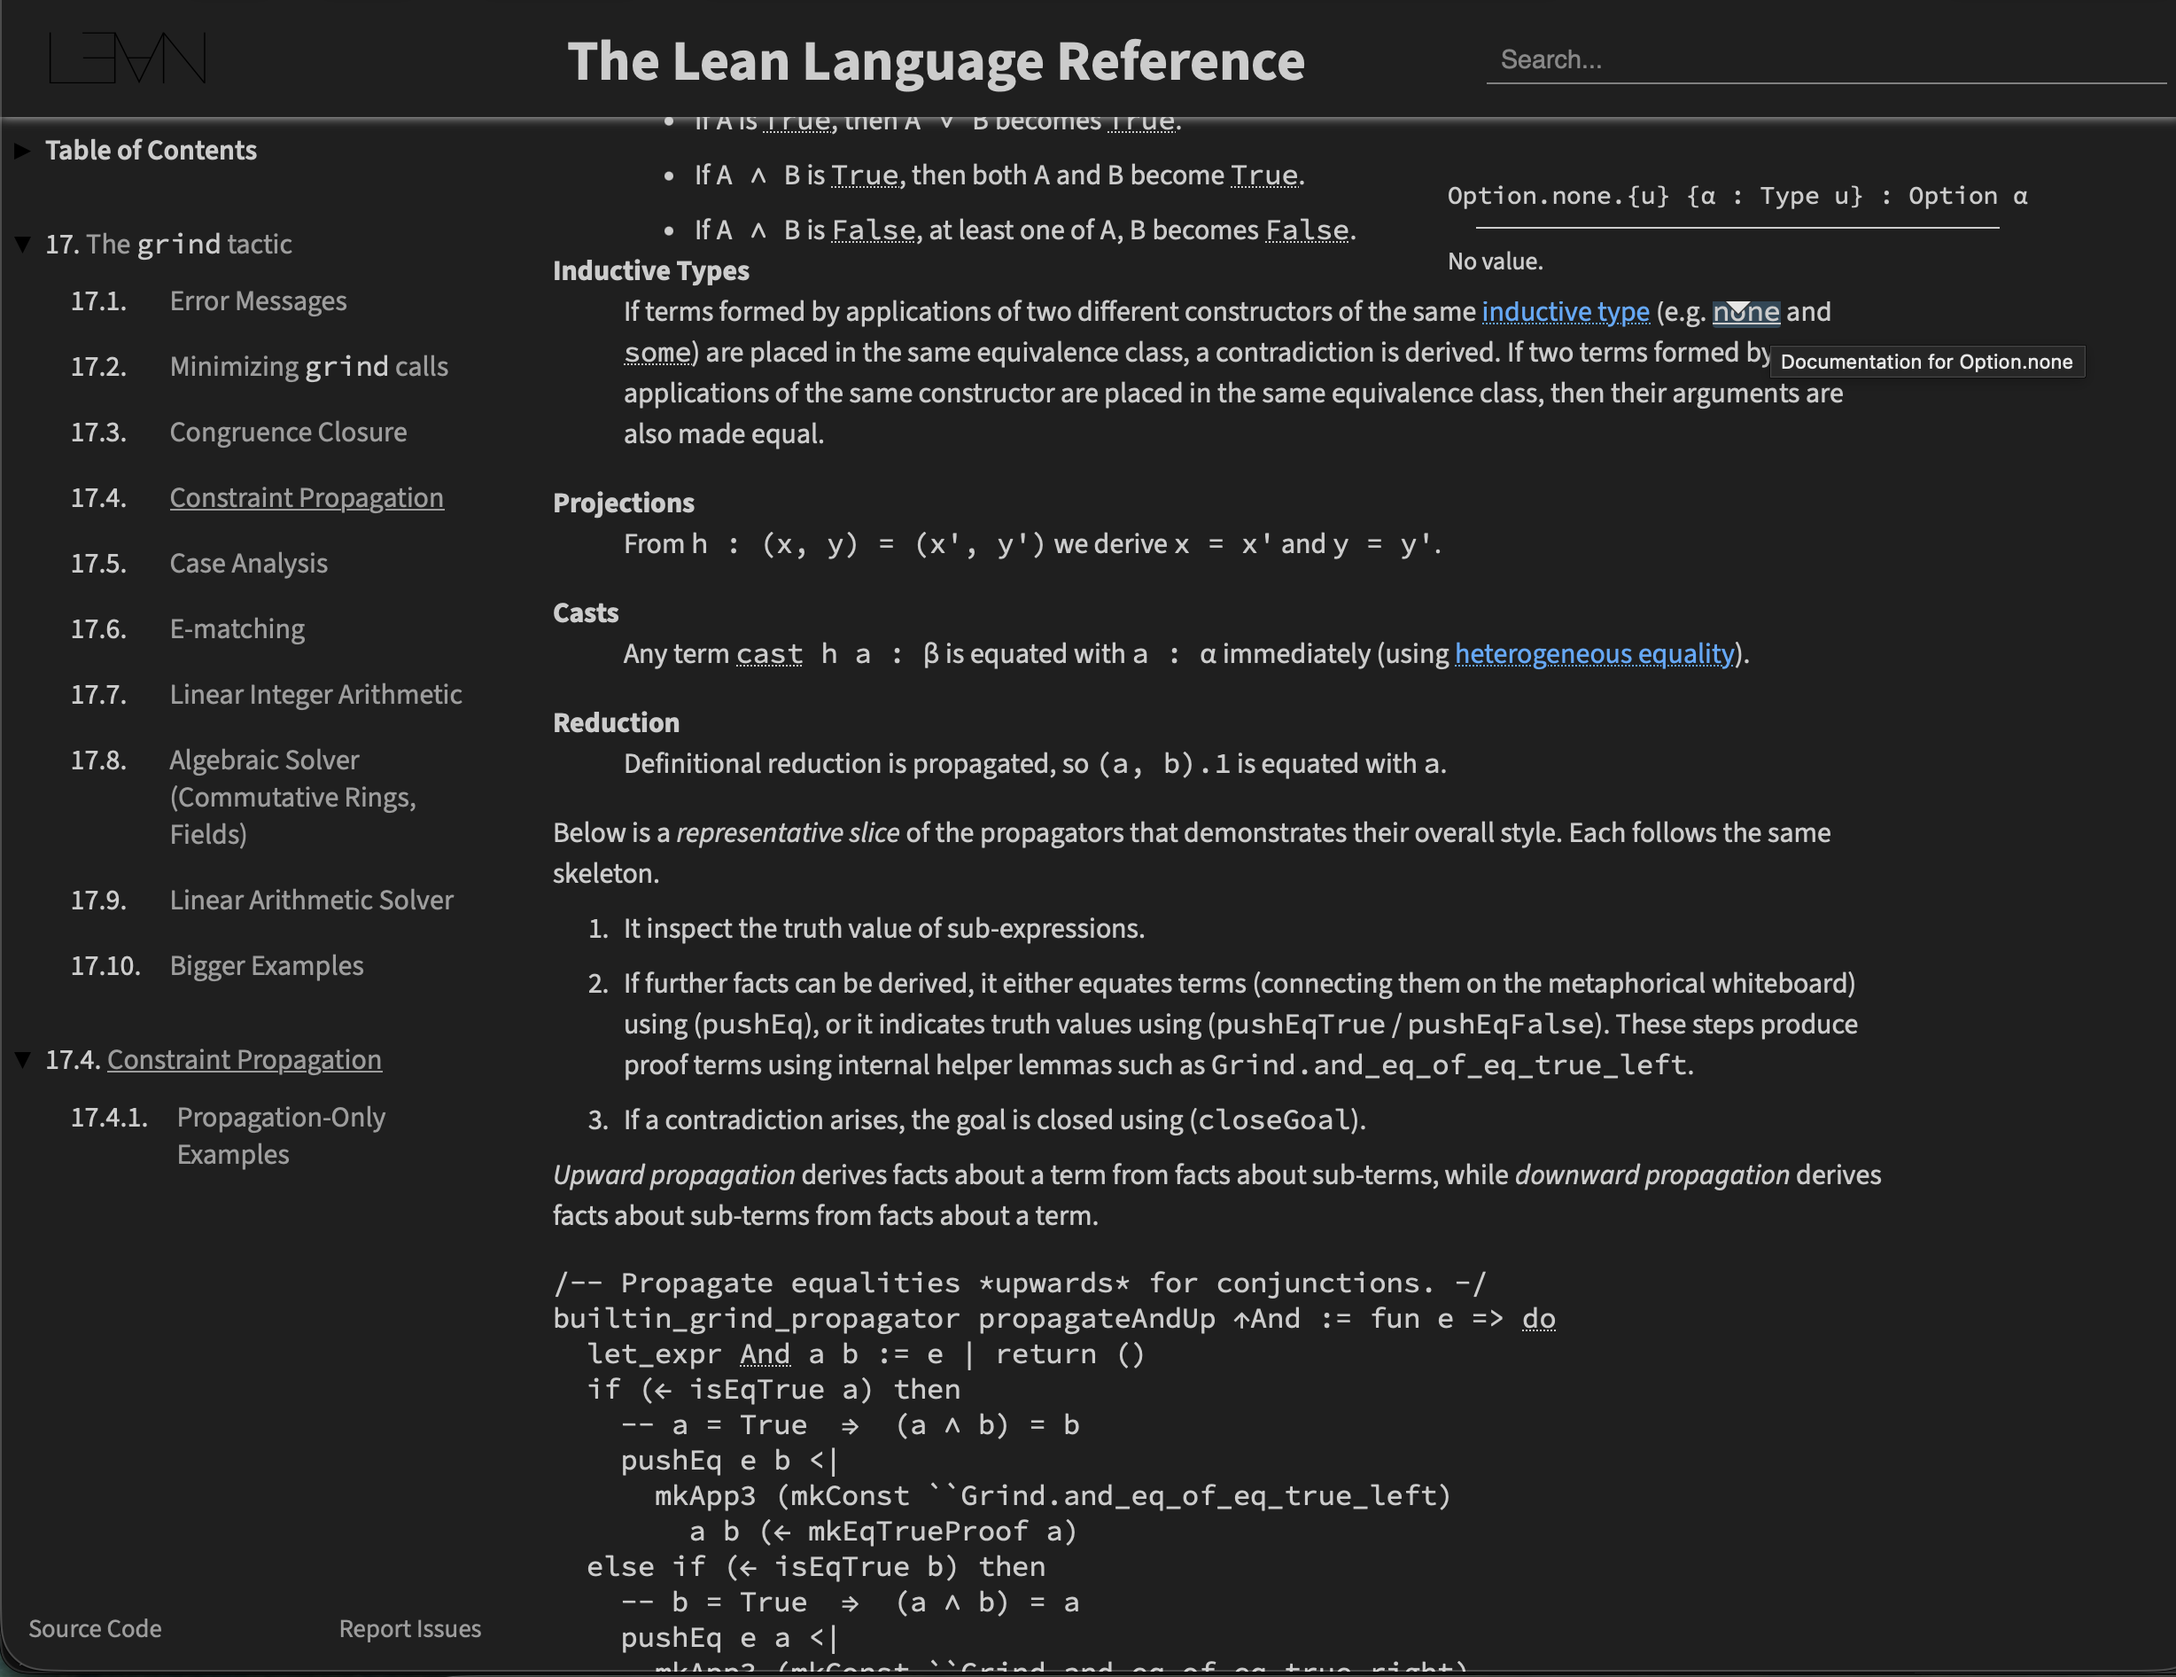
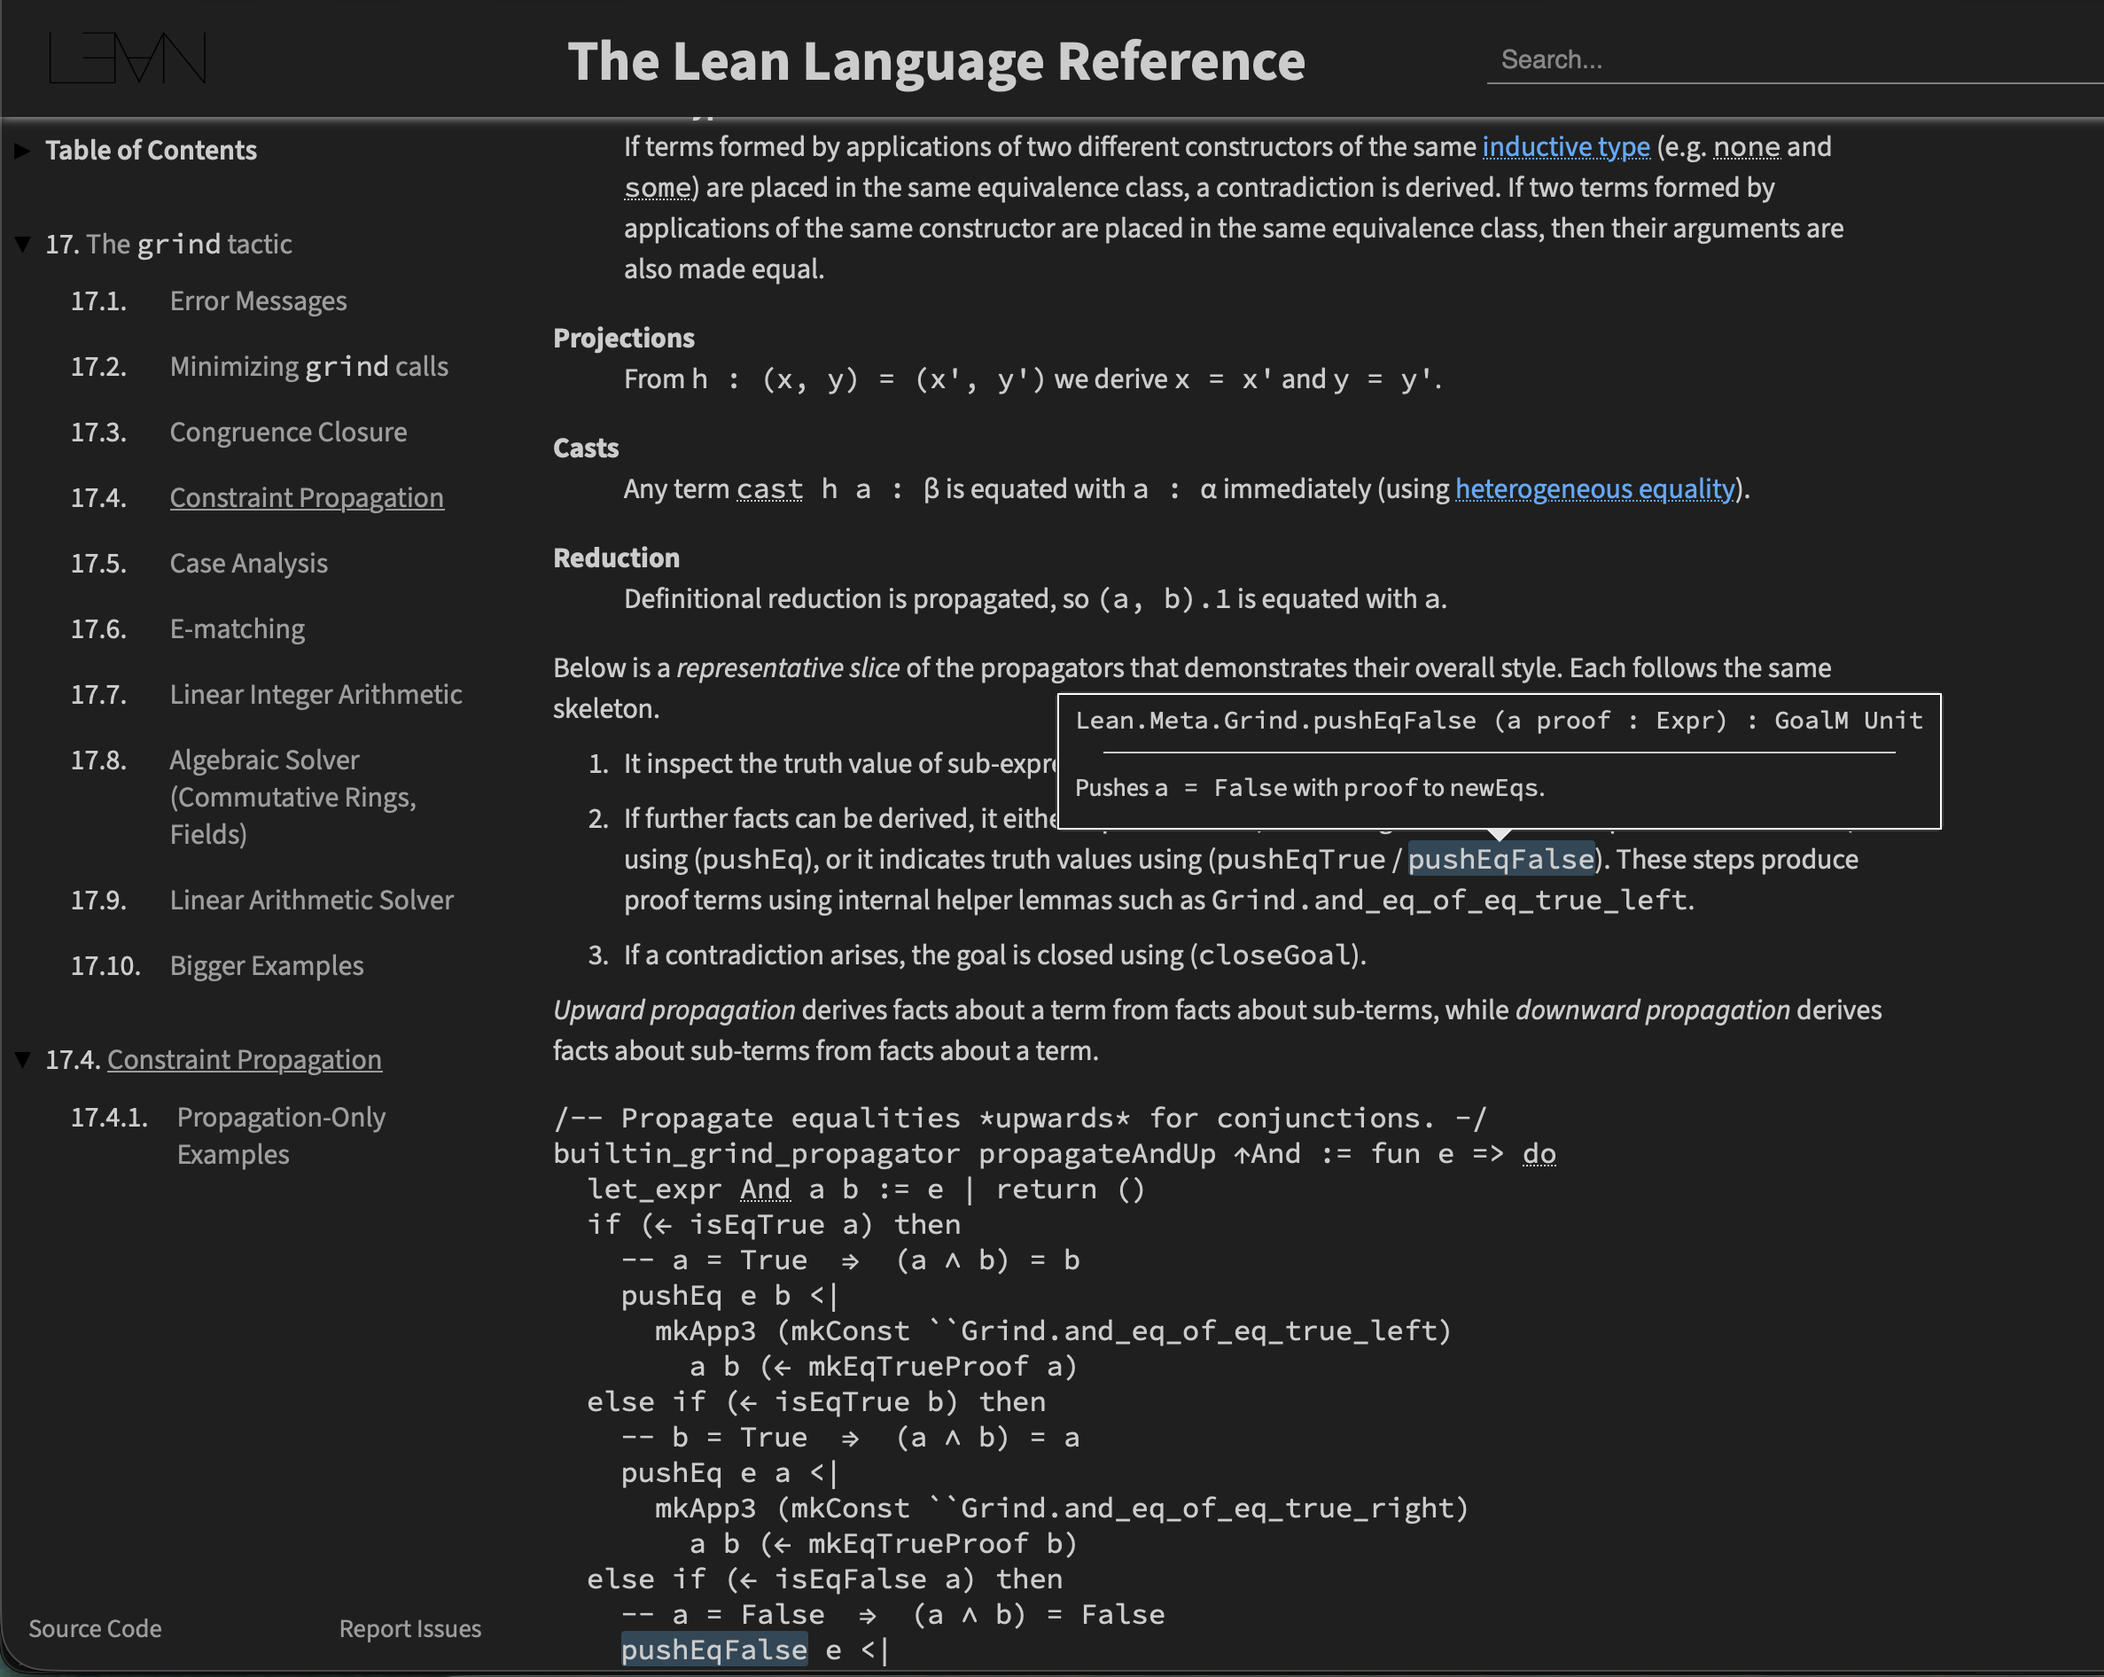
feature update
add four modes:
-light
-dark
-light with syntax
-dark with syntax

formatting updating; minor fixes

diff --git a/Lean Docs Highlighter/Shared (Extension)/Resources/content.css b/Lean Docs Highlighter/Shared (Extension)/Resources/content.css
@@ -141,8 +141,11 @@ html[data-theme^="dark"] .hl.lean.block {
 }
 
 html[data-theme^="dark"] .hl.lean.inline {
-  padding: 0.15em 0.4em !important;
+  padding: 0.05em 0.2em !important;
   border-radius: 3px !important;
+  border-width: 1px !important;
+  display: inline !important;
+  line-height: inherit !important;
 }
 
 html[data-theme^="dark"] pre {
@@ -636,14 +639,18 @@ html[data-theme="dark-regular"] ::-webkit-scrollbar-thumb {
   border-radius: 0;
 }
 
-/* Remove tooltip embellishments */
+/* Tooltip styling - dark regular */
 html[data-theme="dark-regular"] .hover-info,
 html[data-theme="dark-regular"] .hover-container,
-html[data-theme="dark-regular"] [data-tippy-root],
-html[data-theme="dark-regular"] [data-tippy-root] .tippy-box,
 html[data-theme="dark-regular"] [data-tippy-root] .tippy-content {
   background-color: var(--bg-primary) !important;
   border: none !important;
+  border-radius: 0 !important;
+}
+
+html[data-theme="dark-regular"] [data-tippy-root] .tippy-box {
+  background-color: var(--bg-primary) !important;
+  border: 1px solid #ffffff !important;
   border-radius: 0 !important;
 }
 
@@ -990,8 +997,11 @@ html[data-theme="light-highlighting"] .hl.lean.block {
 }
 
 html[data-theme="light-highlighting"] .hl.lean.inline {
-  padding: 0.15em 0.4em !important;
+  padding: 0.05em 0.2em !important;
   border-radius: 3px !important;
+  border-width: 1px !important;
+  display: inline !important;
+  line-height: inherit !important;
 }
 
 html[data-theme="light-highlighting"] pre {

diff --git a/README.md b/README.md
@@ -1,18 +1,23 @@
 # Lean Docs Highlighter
 
-A Safari Web Extension that adds dark mode and syntax highlighting to the [Lean 4 language reference documentation](https://lean-lang.org/doc/reference/latest/).
+A Safari Web Extension that adds theme options and syntax highlighting to the [Lean 4 language reference documentation](https://lean-lang.org/doc/reference/latest/).
 
-| Without Extension | With Extension |
-|-------------------|----------------|
-| ![Docs as-is](docs_as_is.png) | ![With extension](with_ext_enabled.png) |
+|  | Light | Dark |
+|--|-------|------|
+| **Regular** | ![Light](light.png) | ![Dark](dark.png) |
+| **+ Syntax** | ![Light + Syntax](light_highlight.png) | ![Dark + Syntax](dark_highlight.png) |
 
 ## Features
 
-- **Dark theme** based on VS Code Dark Modern
+- **4 Theme Modes** accessible via toolbar popup:
+  - **Light** - Original site appearance
+  - **Light + Syntax** - Original background with syntax highlighting and styled code blocks
+  - **Dark** - Inverted colors, minimal styling
+  - **Dark + Syntax** - VS Code Dark Modern theme with full styling (default)
 - **Syntax highlighting** using semantic token classes from Verso/SubVerso
 - Styled code blocks, tactic states, tooltips, and documentation
 
-### Syntax Colors
+### Syntax Colors (Dark + Syntax)
 
 | Token Type | Color |
 |------------|-------|
@@ -52,11 +57,23 @@ A Safari Web Extension that adds dark mode and syntax highlighting to the [Lean 
 
 ## Usage
 
-Once enabled, the dark theme with syntax highlighting will be applied automatically on:
+Once enabled, click the extension icon in Safari's toolbar to select a theme mode. The extension works on:
 
 - https://lean-lang.org/doc/reference/
 - https://lean-lang.org/theorem_proving_in_lean4/
 - https://lean-lang.org/functional_programming_in_lean/
+- https://leanprover.github.io/reference-manual/
+
+### Theme Modes
+
+| Mode | Background | Code Style | Use Case |
+|------|------------|------------|----------|
+| Light | Original | Monochrome | Reading in bright environments |
+| Light + Syntax | Original | Colored with borders | Syntax awareness on light background |
+| Dark | Inverted | Monochrome | Eye comfort, minimal styling |
+| Dark + Syntax | VS Code Dark | Colored with borders | Full IDE-like experience (default) |
+
+Theme selection resets on page reload (no persistence).
 
 ### Development Workflow
 
@@ -79,7 +96,9 @@ Lean Docs Highlighter/
 ├── Lean Docs Highlighter.xcodeproj/   # Xcode project
 ├── Shared (Extension)/
 │   └── Resources/
-│       ├── content.css                # Dark theme + syntax highlighting
+│       ├── content.css                # Theme styles + syntax highlighting
+│       ├── content.js                 # Theme application logic
+│       ├── popup.html/css/js          # Theme selector UI
 │       ├── manifest.json              # Extension configuration
 │       └── images/                    # Extension icons
 ├── Shared (App)/                      # Container app resources
@@ -98,7 +117,7 @@ The Lean reference manual is built with [Verso](https://github.com/leanprover/ve
 - `.comment` - Comments
 - `.unknown` - Operators and punctuation
 
-These classes exist in the production HTML but have minimal styling. This extension injects CSS that applies dark backgrounds and syntax colors to these existing semantic classes.
+These classes exist in the production HTML but have minimal styling. This extension injects CSS that applies theme-specific backgrounds and syntax colors to these existing semantic classes. Theme selection is handled via a `data-theme` attribute on the document root.
 
 ## Customization
 
@@ -106,15 +125,20 @@ All colors are defined as CSS variables at the top of `content.css`:
 
 ```css
 :root {
+  /* Dark mode */
   --bg-primary: #1f1f1f;
   --syn-keyword: #569cd6;
   --syn-const: #4ec9b0;
+
+  /* Light mode */
+  --bg-light-code: #f8f8f8;
+  --syn-keyword-light: #0000ff;
   /* ... */
 }
 ```
 
-Edit these values and rebuild to customize the theme.
+Edit these values and rebuild to customize the themes.
 
 ## License
 
-apache 2.0
+Apache 2.0
